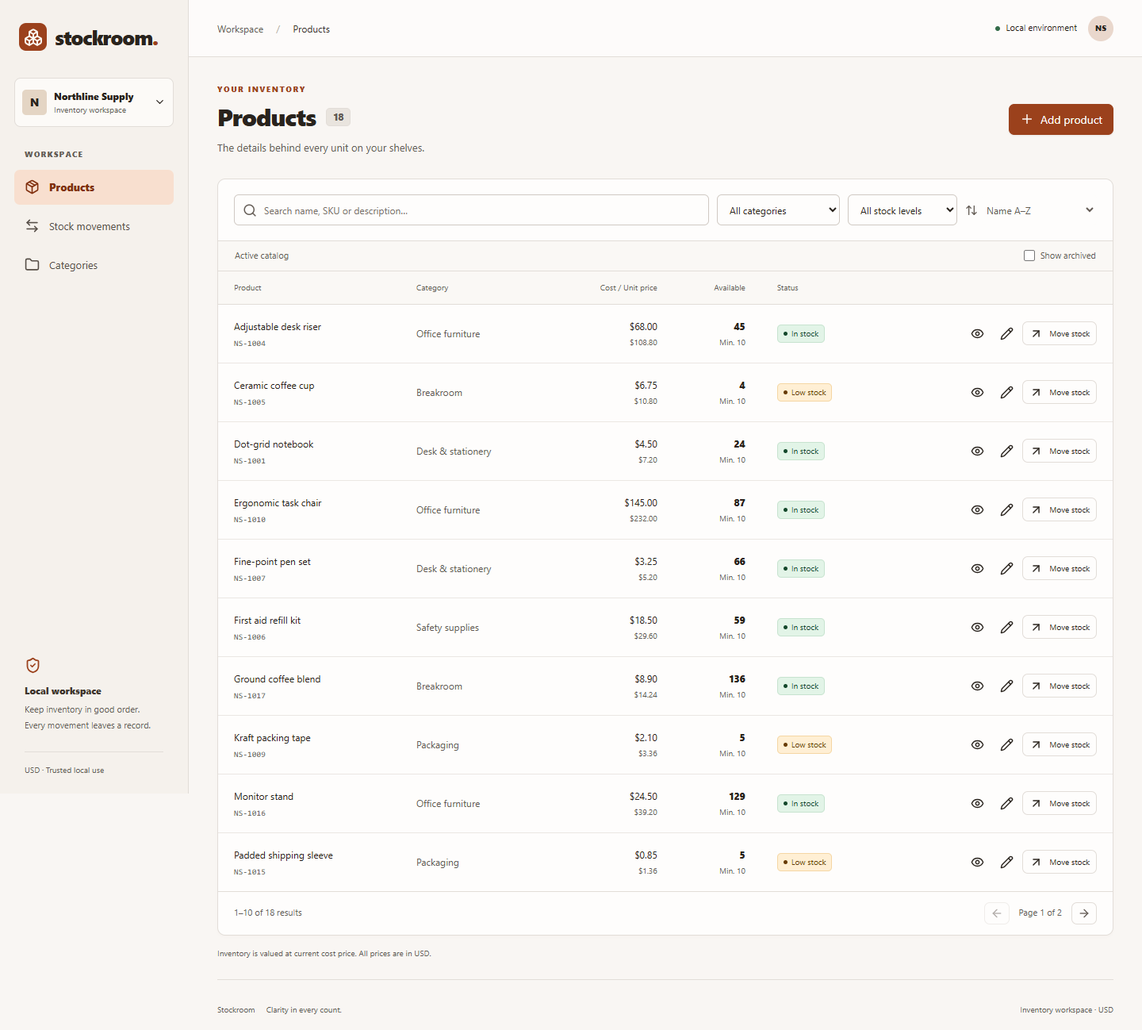
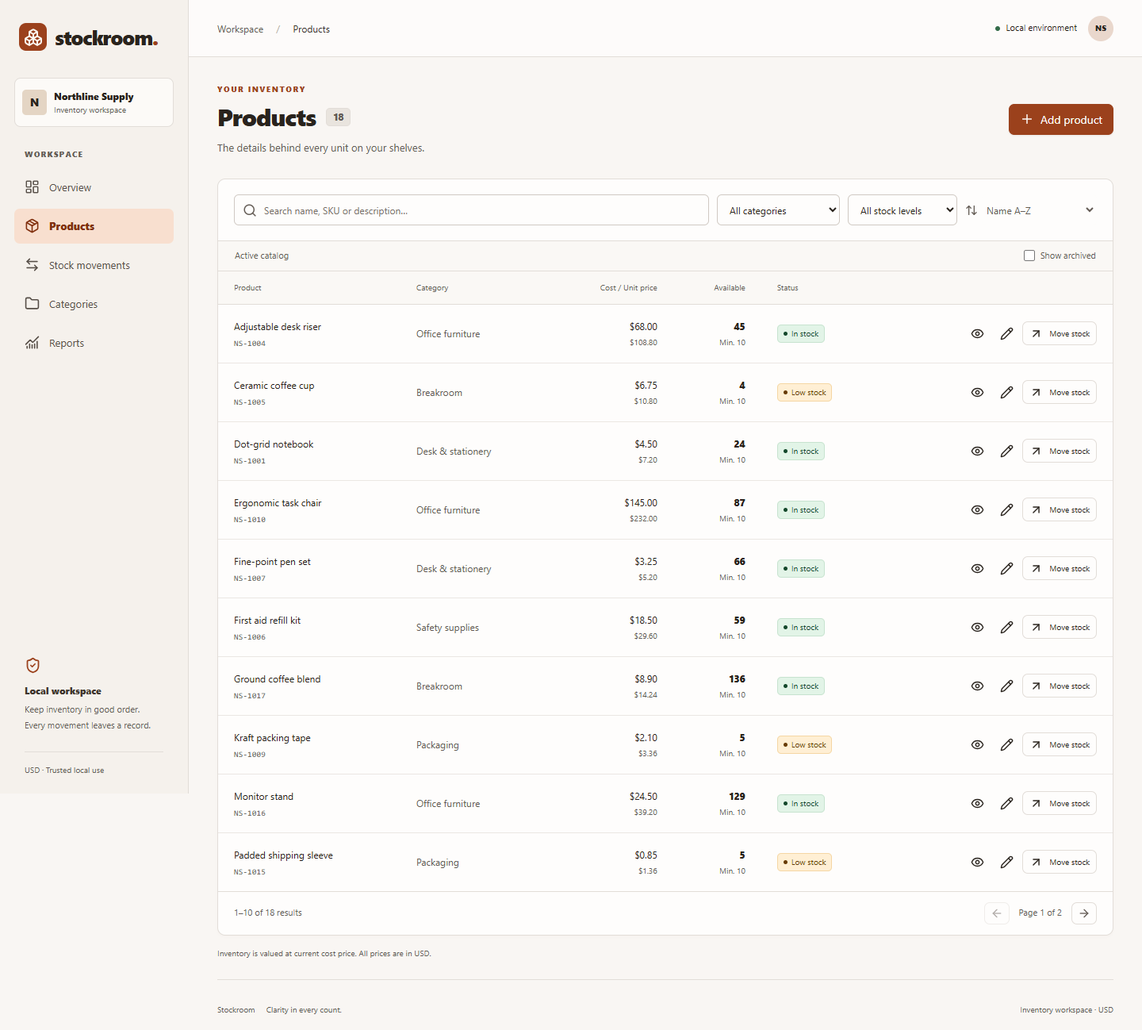
feat: add inventory dashboard and filterable valuation reports (#9)

Changed region(s): [[0.0, 0.1541, 0.1562, 0.339]]

diff --git a/frontend/src/styles.css b/frontend/src/styles.css
@@ -152,3 +152,14 @@ fieldset:disabled { opacity: .6; }
 @media (max-width: 850px) { .sidebar { position: fixed; z-index: 40; width: 245px; left: -250px; height: 100dvh; }.sidebar.open { left: 0; }.mobile-toggle { display: inline-flex !important; }.mobile-close { display: inline-flex !important; position: absolute; right: 8px; top: 6px; }.nav-backdrop { display: block !important; position: fixed; inset: 0; z-index: 39; border: 0; border-radius: 0; background: oklch(20% .02 65 / .3); }.topbar { height: 63px; padding: 0 20px; }.topbar>div { gap: 8px; }.category-layout { grid-template-columns: 1fr; }.category-form { order: -1; }.page-heading { margin-bottom: 24px; }.category-form form { max-width: 550px; } }
 @media (max-width: 550px) { main { padding: 25px 16px 15px; }h1 { font-size: 26px; }.page-heading { flex-wrap: wrap; align-items: flex-start; gap: 16px; }.page-heading .muted { font-size: 12px; }.page-heading>button { width: 100%; }.topbar { padding: 0 12px; }.breadcrumb { font-size: 11px; }.breadcrumb span { margin: 0 7px; }.local-indicator { display: none; }.toolbar { padding: 15px; gap: 9px; }.toolbar .search { min-width: 100%; }.toolbar>label:not(.search) { flex: 1; }.toolbar select { width: 100%; min-width: 100px; }.sort-label svg { display: none; }.date-label { flex-wrap: wrap; }.date-label input { width: 100%; }.table-subhead { padding: 10px 15px; }th, td { padding: 13px 15px; }.pagination { padding: 12px; font-size: 10px; }.pagination>div { gap: 7px; }.pagination>div>span { display: none; }.form-grid { grid-template-columns: 1fr; }.span-2 { grid-column: auto; }dialog { padding: 20px; }.details { gap: 18px; }.stock-context { gap: 15px; }.stock-context>div:first-child { max-width: 70%; }footer { gap: 10px; flex-wrap: wrap; padding-top: 20px; }footer>span:last-child { margin-left: 0; width: 100%; }.history-note { display: none; }.description { overflow-wrap: anywhere; } }
 @media (prefers-reduced-motion: reduce) { *, *::before, *::after { animation: none !important; transition: none !important; } }
+.button { display: inline-flex; align-items: center; justify-content: center; gap: 8px; border: 1px solid var(--line); border-radius: 7px; background: var(--surface); padding: 9px 14px; min-height: 39px; font-size: 12px; font-weight: 550; }.button:hover { background: oklch(94% .01 70); }.button.primary { background: var(--accent); color: oklch(99% .006 70); border-color: var(--accent); }.button.primary:hover { background: oklch(43% .12 41); }
+.heading-actions { display: flex; align-items: center; gap: 12px; }
+.metrics { margin: 0 0 25px; padding: 23px 0 25px; display: grid; grid-template-columns: 1fr 1fr 1.35fr 1fr; border-top: 1px solid var(--line); border-bottom: 1px solid var(--line); }
+.metrics>div { padding: 0 25px; border-right: 1px solid var(--line); }.metrics>div:first-child { padding-left: 0; }.metrics>div:last-child { border-right: 0; padding-right: 0; }.metrics dt { color: var(--muted); font-size: 12px; }.metrics dd { margin: 7px 0 7px; font-size: 30px; letter-spacing: -.9px; font-weight: 600; line-height: 1.25; font-variant-numeric: tabular-nums; }.metrics>div>span { font-size: 10px; color: var(--muted); }.metrics .attention-count { color: var(--accent); display: flex; gap: 15px; align-items: center; }
+.attention-banner { display: flex; align-items: center; gap: 14px; padding: 17px 20px; background: oklch(96% .026 70); border: 1px solid oklch(87% .05 65); border-radius: 8px; margin-bottom: 25px; }.alert-icon { color: var(--accent); }.attention-banner strong { font-size: 12px; }.attention-banner p { color: var(--muted); font-size: 11px; margin-top: 3px; }.attention-banner>a { margin-left: auto; display: flex; gap: 8px; align-items: center; font-size: 11px; color: oklch(41% .1 45); white-space: nowrap; font-weight: 600; }
+.dashboard-charts { display: grid; grid-template-columns: 1.7fr 1fr; gap: 23px; margin-bottom: 25px; }.section-caption { font-size: 10px; color: var(--muted); margin-top: 5px; }.small-label { font-size: 10px; color: var(--muted); white-space: nowrap; }.activity-legend { display: flex; gap: 15px; padding: 0 23px; color: var(--muted); font-size: 10px; }.activity-legend span { display: flex; gap: 5px; align-items: center; }.activity-legend i, .legend-dot { width: 7px; height: 7px; border-radius: 2px; display: inline-block; }.activity-chart { padding: 10px 10px 10px 15px; }.chart-bottom { border-top: 1px solid var(--line); margin-top: 9px; padding: 16px 21px; display: flex; align-items: center; justify-content: space-between; gap: 10px; font-size: 10px; color: var(--muted); }.chart-bottom a { display: flex; align-items: center; gap: 5px; color: var(--accent); }.donut-wrap { position: relative; margin: -10px 0 -5px; }.donut-center { position: absolute; top: 50%; left: 50%; transform: translate(-50%, -50%); display: flex; flex-direction: column; align-items: center; pointer-events: none; }.donut-center strong { font-size: 24px; letter-spacing: -.5px; }.donut-center span { font-size: 10px; color: var(--muted); }.chart-legend { list-style: none; margin: 0; padding: 5px 24px 20px; display: grid; grid-template-columns: 1fr 1fr; gap: 9px 15px; }.chart-legend li { display: flex; align-items: center; gap: 6px; font-size: 9px; color: var(--muted); }.chart-legend li strong { margin-left: auto; font-size: 10px; color: oklch(32% .02 65); }.legend-dot { flex: 0 0 7px; }
+.dashboard-bottom, .reports-detail { display: grid; grid-template-columns: 1.2fr 1fr; gap: 23px; }.dashboard-bottom td { padding-top: 13px; padding-bottom: 13px; }.dashboard-bottom .section-heading { gap: 10px; }.section-heading .text-button { white-space: nowrap; font-size: 10px; }.recent-list { margin: 0; padding: 0 21px; list-style: none; }.recent-list li { display: flex; align-items: center; gap: 12px; border-top: 1px solid var(--line); padding: 15px 0; }.recent-icon { display: grid; place-items: center; height: 32px; width: 32px; border-radius: 7px; background: oklch(95% .015 65); color: var(--accent); }.recent-icon.in { background: oklch(95% .02 155); color: oklch(40% .07 155); transform: rotate(180deg); }.recent-list li>div { flex: 1; min-width: 0; }.recent-list li>div strong { font-size: 11px; }.recent-list li>div span { display: block; margin-top: 3px; font-size: 9px; color: var(--muted); }.recent-list li>strong { text-align: right; font-size: 14px; font-variant-numeric: tabular-nums; }.recent-list li>strong span { display: block; color: var(--muted); font-size: 9px; font-weight: 400; }
+.report-filters { display: flex; flex-wrap: wrap; gap: 12px; padding: 16px; margin-bottom: 25px; }.report-filters .search { flex: 1; position: relative; min-width: 200px; }.report-filters .search svg { top: 11px; }.report-filters label { font-size: 12px; }.report-filters label:not(.search) { max-width: 240px; }.report-total { padding: 18px 21px; border-top: 1px solid var(--line); display: flex; align-items: center; gap: 20px; font-size: 12px; background: oklch(98% .006 70); }.report-total strong { font-size: 19px; color: var(--accent); }.report-total>span:last-child { margin-left: auto; color: var(--muted); font-size: 10px; }.reports-detail { margin-top: 25px; grid-template-columns: 1fr 1fr; align-items: start; }.activity-table { max-height: 345px; }.activity-table th { position: sticky; top: 0; }.recharts-tooltip-wrapper { font-size: 11px; }
+@media (max-width: 1200px) { .metrics>div { padding: 0 15px; }.metrics dd { font-size: 26px; }.dashboard-charts { grid-template-columns: 1.5fr 1fr; }.chart-legend { grid-template-columns: 1fr; }.chart-bottom>span { display: none; }.dashboard-bottom { grid-template-columns: 1fr; }.dashboard-bottom .recent-list { display: grid; grid-template-columns: 1fr 1fr; gap: 0 25px; } }
+@media (max-width: 850px) { .metrics { grid-template-columns: 1fr 1fr; gap: 22px 0; }.metrics>div:nth-child(2) { border-right: 0; }.metrics>div:nth-child(3) { padding-left: 0; }.metrics>div:nth-child(3), .metrics>div:nth-child(4) { padding-top: 20px; border-top: 1px solid var(--line); }.dashboard-charts { grid-template-columns: 1.5fr 1fr; }.reports-detail { grid-template-columns: 1fr; } }
+@media (max-width: 550px) { .metrics { padding: 20px 0; }.metrics dd { font-size: 26px; }.metrics>div>span { font-size: 9px; }.dashboard-charts, .dashboard-bottom { grid-template-columns: 1fr; gap: 20px; }.chart-legend { grid-template-columns: 1fr 1fr; }.attention-banner { padding: 14px; align-items: flex-start; gap: 9px; flex-wrap: wrap; }.attention-banner>div { max-width: calc(100% - 34px); }.attention-banner>a { margin-left: 29px; }.dashboard-bottom .recent-list { display: block; }.heading-actions { width: 100%; justify-content: space-between; }.heading-actions .button { flex: 1; }.report-filters .search { min-width: 100%; }.report-filters label:not(.search) { flex: 1; max-width: none; }.report-total { flex-wrap: wrap; gap: 8px 16px; }.report-total>span:last-child { margin-left: 0; width: 100%; }.section-heading { padding: 18px; }.dashboard-bottom td { padding-left: 12px; padding-right: 12px; } }

diff --git a/frontend/src/Dashboard.tsx b/frontend/src/Dashboard.tsx
@@ -1,0 +1,27 @@
+import { useState } from 'react'
+import { Link } from 'react-router-dom'
+import { useQuery } from '@tanstack/react-query'
+import { ArrowRight, ArrowUpRight, AlertTriangle, RefreshCw } from 'lucide-react'
+import { Bar, BarChart, CartesianGrid, Cell, Pie, PieChart, ResponsiveContainer, Tooltip, XAxis, YAxis } from 'recharts'
+import { api, count, kindLabel, money, timestamp, type Product, type Report } from './api'
+import { Empty, ErrorMessage, Loading, StockBadge } from './ui'
+import { StockForm } from './Forms'
+
+const palette = ['oklch(49% .13 41)', 'oklch(55% .055 155)', 'oklch(68% .07 80)', 'oklch(48% .045 250)', 'oklch(72% .04 55)', 'oklch(64% .05 310)']
+export function Metrics({ data }: { data: Report }) {
+  return <dl className="metrics"><div><dt>Total products</dt><dd>{count(data.totalProducts)}</dd><span>Active catalog items</span></div><div><dt>Inventory units</dt><dd>{count(data.totalUnits)}</dd><span>Across all matching products</span></div><div><dt>Inventory value</dt><dd>{money(data.inventoryValue)}</dd><span>At current cost · USD</span></div><div><dt>Needs attention</dt><dd className="attention-count">{data.lowStockProducts + data.outOfStockProducts}<AlertTriangle size={21}/></dd><span>{data.lowStockProducts} low · {data.outOfStockProducts} out of stock</span></div></dl>
+}
+export function CategoryChart({ data }: { data: Report }) {
+  return <section className="panel distribution"><div className="section-heading"><div><h2>Category distribution</h2><p className="section-caption">Available units by category</p></div><span className="small-label">{data.categories.length} categories</span></div>{data.totalUnits === 0 ? <Empty title="No units to distribute">Receive stock to see your category mix.</Empty> : <><div className="donut-wrap" role="img" aria-label={`Category distribution: ${data.categories.map(c => `${c.name}, ${c.units} units`).join('; ')}`}><ResponsiveContainer width="100%" height={205} initialDimension={{ width: 350, height: 205 }}><PieChart><Pie data={data.categories} dataKey="units" nameKey="name" innerRadius={62} outerRadius={86} paddingAngle={3} stroke="none" isAnimationActive={false}>{data.categories.map((c, i) => <Cell key={c.categoryId} fill={palette[i % palette.length]}/>)}</Pie><Tooltip/></PieChart></ResponsiveContainer><div className="donut-center"><strong>{count(data.totalUnits)}</strong><span>total units</span></div></div><ul className="chart-legend">{data.categories.map((c, i) => <li key={c.categoryId}><span className="legend-dot" style={{ background: palette[i % palette.length] }}/><span>{c.name}</span><strong>{count(c.units)}</strong></li>)}</ul></>}</section>
+}
+export default function Dashboard({ notify }: { notify: (message: string) => void }) {
+  const report = useQuery({ queryKey: ['reports', 'dashboard'], queryFn: () => api<Report>('/reports'), refetchInterval: 30000 })
+  const [moving, setMoving] = useState<Product | null>(null)
+  const data = report.data
+  return <><div className="page-heading"><div><p className="eyebrow">THE BIG PICTURE</p><h1>Inventory overview</h1><p className="muted">Know what’s on hand. See what needs your attention.</p></div><div className="heading-actions"><button className="icon-button" aria-label="Refresh dashboard" disabled={report.isFetching} onClick={() => report.refetch()}><RefreshCw size={17}/></button><Link className="button primary" to="/products">Manage inventory<ArrowUpRight size={17}/></Link></div></div><ErrorMessage error={report.error}/>{report.isPending ? <Loading/> : data && <>
+    <Metrics data={data}/>
+    {data.lowStockProducts + data.outOfStockProducts > 0 && <div className="attention-banner"><span className="alert-icon"><AlertTriangle size={19}/></span><div><strong>A little attention keeps things moving.</strong><p>{data.lowStockProducts} products are running low and {data.outOfStockProducts} are out of stock.</p></div><Link to="/reports?status=out">Review stock<ArrowRight size={16}/></Link></div>}
+    <div className="dashboard-charts"><section className="panel activity-panel"><div className="section-heading"><div><h2>Stock activity</h2><p className="section-caption">Units received and issued over the last 14 days</p></div><span className="small-label">Daily · UTC</span></div><div className="activity-legend"><span><i style={{ background: palette[0] }}/>Received</span><span><i style={{ background: palette[3] }}/>Issued</span><span><i style={{ background: palette[1] }}/>Adjusted</span></div><div className="activity-chart" role="img" aria-label="Daily stock movement chart. Tabular activity is available in Reports."><ResponsiveContainer width="100%" height={240} initialDimension={{ width: 600, height: 240 }}><BarChart data={data.activity} margin={{ top: 15, right: 18, bottom: 0, left: -18 }} barGap={2}><CartesianGrid stroke="oklch(92% .01 70)" vertical={false}/><XAxis dataKey="date" tickFormatter={value => String(value).slice(5).replace('-', '/')} axisLine={false} tickLine={false} tick={{ fontSize: 10, fill: 'oklch(48% .015 65)' }} minTickGap={18}/><YAxis axisLine={false} tickLine={false} tick={{ fontSize: 10, fill: 'oklch(48% .015 65)' }} allowDecimals={false}/><Tooltip cursor={{ fill: 'oklch(96% .01 70)' }}/><Bar name="Received" dataKey="received" fill={palette[0]} radius={[3, 3, 0, 0]} isAnimationActive={false}/><Bar name="Issued" dataKey="issued" fill={palette[3]} radius={[3, 3, 0, 0]} isAnimationActive={false}/><Bar name="Adjusted" dataKey="adjusted" fill={palette[1]} radius={[3, 3, 0, 0]} isAnimationActive={false}/></BarChart></ResponsiveContainer></div><div className="chart-bottom"><span>Every movement is recorded in your stock ledger.</span><Link to="/movements">View all movements<ArrowRight size={14}/></Link></div></section><CategoryChart data={data}/></div>
+    <div className="dashboard-bottom"><section className="panel"><div className="section-heading"><div><h2>Replenishment watchlist</h2><p className="section-caption">Out-of-stock and low-stock products first</p></div><Link className="text-button" to="/reports?status=low">View report<ArrowRight size={14}/></Link></div>{data.attentionProducts.length === 0 ? <Empty title="Stock is in good shape">There are no low-stock products to review.</Empty> : <div className="table-scroll" tabIndex={0} aria-label="Products needing attention"><table><thead><tr><th>Product</th><th className="numeric">On hand</th><th>Status</th><th><span className="sr-only">Action</span></th></tr></thead><tbody>{data.attentionProducts.map(p => <tr key={p.id}><td><strong>{p.name}</strong><span className="subline mono">{p.sku}</span></td><td className="numeric"><strong>{p.quantity}</strong><span className="subline">Min. {p.lowStockThreshold}</span></td><td><StockBadge product={p}/></td><td><button className="icon-button" aria-label={`Receive stock for ${p.name}`} onClick={() => setMoving(p)}><ArrowUpRight size={18}/></button></td></tr>)}</tbody></table></div>}</section><section className="panel"><div className="section-heading"><div><h2>Recent movements</h2><p className="section-caption">The latest changes to your stock</p></div><Link className="text-button" to="/movements">View all<ArrowRight size={14}/></Link></div>{data.recentMovements.length === 0 ? <Empty title="Your ledger starts here">Receive stock from the product catalog to record your first movement.</Empty> : <ul className="recent-list">{data.recentMovements.slice(0, 6).map(m => <li key={m.id}><span className={`recent-icon ${m.kind}`}><ArrowUpRight size={17}/></span><div><strong>{m.productName}</strong><span>{kindLabel(m.kind)} · {timestamp(m.createdAt)}</span></div><strong className={m.delta > 0 ? 'positive' : 'negative'}>{m.delta > 0 ? '+' : ''}{m.delta}<span>units</span></strong></li>)}</ul>}</section></div><p className="table-footnote">Snapshot: {timestamp(data.asOf)} · Auto-refreshes every 30 seconds · Valued at current cost</p>
+  </>}{moving && <StockForm product={moving} onClose={() => setMoving(null)} onSaved={notify}/>}</>
+}

diff --git a/frontend/src/App.tsx b/frontend/src/App.tsx
@@ -1,18 +1,20 @@
-import { useState } from 'react'
+import { useState, lazy, Suspense } from 'react'
 import { NavLink, Navigate, Route, Routes, useLocation } from 'react-router-dom'
-import { Boxes, Package, ArrowLeftRight, Folder, Menu, X, ShieldCheck } from 'lucide-react'
+import { Boxes, Package, ArrowLeftRight, Folder, Menu, X, ShieldCheck, LayoutDashboard, ChartNoAxesCombined } from 'lucide-react'
 import Products from './Products'
 import Categories from './Categories'
 import Movements from './Movements'
+const Dashboard = lazy(() => import('./Dashboard'))
+const Reports = lazy(() => import('./Reports'))
+import { Loading } from './ui'
 
 export default function App() {
   const [menu, setMenu] = useState(false), [message, setMessage] = useState('')
   const location = useLocation()
   const notify = (text: string) => setMessage(text)
   return <div className="app-shell"><a className="skip-link" href="#main">Skip to content</a>{menu && <button className="nav-backdrop" aria-label="Close navigation" onClick={() => setMenu(false)}/>}
-    <aside id="primary-sidebar" className={`sidebar ${menu ? 'open' : ''}`}><a href="/products" className="brand"><span className="brand-mark"><Boxes size={24}/></span>stockroom<span className="brand-dot">.</span></a><button className="mobile-close icon-button" aria-label="Close navigation" onClick={() => setMenu(false)}><X/></button><div className="workspace"><span className="workspace-avatar">N</span><div><strong>Northline Supply</strong><span>Inventory workspace</span></div></div><p className="nav-label">WORKSPACE</p><nav aria-label="Primary navigation"><NavLink to="/products" onClick={() => setMenu(false)}><Package size={19}/>Products</NavLink><NavLink to="/movements" onClick={() => setMenu(false)}><ArrowLeftRight size={19}/>Stock movements</NavLink><NavLink to="/categories" onClick={() => setMenu(false)}><Folder size={19}/>Categories</NavLink></nav><div className="sidebar-bottom"><ShieldCheck size={21}/><strong>Local workspace</strong><p>Keep inventory in good order.<br/>Every movement leaves a record.</p><span>USD · Trusted local use</span></div></aside>
-    <div className="workspace-main"><header className="topbar"><div><button className="mobile-toggle icon-button" aria-label="Open navigation" aria-expanded={menu} aria-controls="primary-sidebar" onClick={() => setMenu(!menu)}><Menu size={22}/></button><span className="breadcrumb">Workspace <span>/</span> <strong>{({ '/products': 'Products', '/movements': 'Stock movements', '/categories': 'Categories' })[location.pathname] ?? 'Inventory'}</strong></span></div><div className="topbar-right"><span className="local-indicator">Local environment</span><span className="user-avatar" aria-label="Inventory operator">NS</span></div></header>
-    <main id="main" tabIndex={-1}>{message && <div role="status" className="toast"><ShieldCheck size={18}/>{message}<button className="icon-button" aria-label="Dismiss notification" onClick={() => setMessage('')}><X size={16}/></button></div>}<Routes><Route path="/products" element={<Products notify={notify}/>}/><Route path="/categories" element={<Categories notify={notify}/>}/><Route path="/movements" element={<Movements/>}/><Route path="*" element={<Navigate to="/products" replace/>}/></Routes><footer>Stockroom <span>Clarity in every count.</span><span>Inventory workspace · USD</span></footer></main></div>
+    <aside id="primary-sidebar" className={`sidebar ${menu ? 'open' : ''}`}><a href="/" className="brand"><span className="brand-mark"><Boxes size={24}/></span>stockroom<span className="brand-dot">.</span></a><button className="mobile-close icon-button" aria-label="Close navigation" onClick={() => setMenu(false)}><X/></button><div className="workspace"><span className="workspace-avatar">N</span><div><strong>Northline Supply</strong><span>Inventory workspace</span></div></div><p className="nav-label">WORKSPACE</p><nav aria-label="Primary navigation"><NavLink to="/" end onClick={() => setMenu(false)}><LayoutDashboard size={19}/>Overview</NavLink><NavLink to="/products" onClick={() => setMenu(false)}><Package size={19}/>Products</NavLink><NavLink to="/movements" onClick={() => setMenu(false)}><ArrowLeftRight size={19}/>Stock movements</NavLink><NavLink to="/categories" onClick={() => setMenu(false)}><Folder size={19}/>Categories</NavLink><NavLink to="/reports" onClick={() => setMenu(false)}><ChartNoAxesCombined size={19}/>Reports</NavLink></nav><div className="sidebar-bottom"><ShieldCheck size={21}/><strong>Local workspace</strong><p>Keep inventory in good order.<br/>Every movement leaves a record.</p><span>USD · Trusted local use</span></div></aside>
+    <div className="workspace-main"><header className="topbar"><div><button className="mobile-toggle icon-button" aria-label="Open navigation" aria-expanded={menu} aria-controls="primary-sidebar" onClick={() => setMenu(!menu)}><Menu size={22}/></button><span className="breadcrumb">Workspace <span>/</span> <strong>{({ '/': 'Overview', '/reports': 'Reports', '/products': 'Products', '/movements': 'Stock movements', '/categories': 'Categories' })[location.pathname] ?? 'Inventory'}</strong></span></div><div className="topbar-right"><span className="local-indicator">Local environment</span><span className="user-avatar" aria-label="Inventory operator">NS</span></div></header>
+    <main id="main" tabIndex={-1}>{message && <div role="status" className="toast"><ShieldCheck size={18}/>{message}<button className="icon-button" aria-label="Dismiss notification" onClick={() => setMessage('')}><X size={16}/></button></div>}<Suspense fallback={<Loading/>}><Routes><Route path="/" element={<Dashboard notify={notify}/>}/><Route path="/reports" element={<Reports/>}/><Route path="/products" element={<Products notify={notify}/>}/><Route path="/categories" element={<Categories notify={notify}/>}/><Route path="/movements" element={<Movements/>}/><Route path="*" element={<Navigate to="/" replace/>}/></Routes></Suspense><footer>Stockroom <span>Clarity in every count.</span><span>Inventory workspace · USD</span></footer></main></div>
   </div>
 }
-

diff --git a/frontend/src/Reports.tsx b/frontend/src/Reports.tsx
@@ -1,0 +1,19 @@
+import { useState } from 'react'
+import { useSearchParams, Link } from 'react-router-dom'
+import { useQuery } from '@tanstack/react-query'
+import { Search, ArrowUpRight } from 'lucide-react'
+import { api, count, money, params, timestamp, type Category, type Page, type Product, type Report } from './api'
+import { Metrics } from './Dashboard'
+import { Empty, ErrorMessage, Loading, Pagination, StockBadge } from './ui'
+
+export default function Reports() {
+  const [searchParams] = useSearchParams()
+  const [search, setSearch] = useState(''), [categoryId, setCategory] = useState(''), [status, setStatus] = useState(searchParams.get('status') || 'all'), [page, setPage] = useState(1)
+  const filter = params({ search, categoryId, status })
+  const report = useQuery({ queryKey: ['reports', filter], queryFn: () => api<Report>(`/reports?${filter}`) })
+  const products = useQuery({ queryKey: ['products', 'report', filter, page], queryFn: () => api<Page<Product>>(`/products?${filter}&page=${page}&pageSize=10&sort=value&descending=true`) })
+  const categories = useQuery({ queryKey: ['categories'], queryFn: () => api<Category[]>('/categories') })
+  const change = (fn: () => void) => { fn(); setPage(1) }
+  const data = report.data
+  return <><div className="page-heading"><div><p className="eyebrow">A CLOSER LOOK</p><h1>Inventory reports</h1><p className="muted">Understand stock health, distribution and current-cost valuation.</p></div><Link className="button" to="/movements">Movement history<ArrowUpRight size={16}/></Link></div><div className="report-filters panel"><label className="search"><Search size={18}/><span className="sr-only">Search report</span><input value={search} maxLength={160} placeholder="Search products or SKUs…" onChange={e => change(() => setSearch(e.target.value))}/></label><label><span className="sr-only">Report category</span><select value={categoryId} onChange={e => change(() => setCategory(e.target.value))}><option value="">All categories</option>{categories.data?.map(c => <option key={c.id} value={c.id}>{c.name}</option>)}</select></label><label><span className="sr-only">Report stock status</span><select value={status} onChange={e => change(() => setStatus(e.target.value))}><option value="all">All stock levels</option><option value="low">Low stock</option><option value="out">Out of stock</option><option value="healthy">In stock</option></select></label></div><ErrorMessage error={report.error || products.error || categories.error}/>{report.isPending ? <Loading/> : data && <><Metrics data={data}/><section className="panel"><div className="section-heading"><div><h2>Inventory valuation</h2><p className="section-caption">Filtered products, ordered by cost value</p></div><span className="small-label">USD</span></div>{products.isPending ? <Loading/> : products.data?.items.length === 0 ? <Empty title="No products match this report"/> : <div className="table-scroll" tabIndex={0} aria-label="Inventory valuation table"><table><thead><tr><th>Product</th><th>Category</th><th className="numeric">Quantity</th><th className="numeric">Cost price</th><th className="numeric">Cost value</th><th>Status</th><th>History</th></tr></thead><tbody>{products.data?.items.map(p => <tr key={p.id}><td><strong>{p.name}</strong><span className="subline mono">{p.sku}</span></td><td className="muted">{p.categoryName}</td><td className="numeric">{count(p.quantity)}</td><td className="numeric">{money(p.costPrice)}</td><td className="numeric"><strong>{money(p.inventoryValue)}</strong></td><td><StockBadge product={p}/></td><td><Link className="text-button" aria-label={`History for ${p.name}`} to={`/movements?productId=${p.id}`}>View ledger<ArrowUpRight size={14}/></Link></td></tr>)}</tbody></table></div>}{products.data && <Pagination page={page} total={products.data.total} onChange={setPage}/>}<div className="report-total"><span>Current-cost inventory value</span><strong data-testid="report-value">{money(data.inventoryValue)}</strong><span>Retail value: {money(data.retailValue)}</span></div></section><div className="reports-detail"><section className="panel"><div className="section-heading"><h2>Category breakdown</h2></div>{data.categories.length === 0 ? <Empty title="No category data"/> : <div className="table-scroll" tabIndex={0} aria-label="Category valuation"><table><thead><tr><th>Category</th><th className="numeric">Products</th><th className="numeric">Units</th><th className="numeric">Cost value</th></tr></thead><tbody>{data.categories.map(c => <tr key={c.categoryId}><td>{c.name}</td><td className="numeric">{c.products}</td><td className="numeric">{count(c.units)}</td><td className="numeric">{money(c.value)}</td></tr>)}</tbody></table></div>}</section><section className="panel"><div className="section-heading"><div><h2>Daily movement totals</h2><p className="section-caption">Last 14 days · UTC</p></div></div><div className="table-scroll activity-table" tabIndex={0} aria-label="Daily stock activity"><table><thead><tr><th>Date</th><th className="numeric">Received</th><th className="numeric">Issued</th><th className="numeric">Adjusted</th></tr></thead><tbody>{data.activity.slice().reverse().map(day => <tr key={day.date}><td>{day.date}</td><td className="numeric">{day.received}</td><td className="numeric">{day.issued}</td><td className="numeric">{day.adjusted > 0 ? '+' : ''}{day.adjusted}</td></tr>)}</tbody></table></div></section></div><p className="table-footnote">Snapshot: {timestamp(data.asOf)} · Inventory value uses current cost price.</p></>}</>
+}

diff --git a/frontend/src/Dashboard.test.tsx b/frontend/src/Dashboard.test.tsx
@@ -1,0 +1,27 @@
+import { render, screen, within, waitFor } from '@testing-library/react'
+import { QueryClient, QueryClientProvider } from '@tanstack/react-query'
+import { MemoryRouter } from 'react-router-dom'
+import { test, expect, vi } from 'vitest'
+import userEvent from '@testing-library/user-event'
+import Dashboard from './Dashboard'
+import Reports from './Reports'
+import type { Report } from './api'
+
+const report: Report = { totalProducts: 2, totalUnits: 3, inventoryValue: '0.30', retailValue: '0.90', lowStockProducts: 1, outOfStockProducts: 1, categories: [{ categoryId: 'c1', name: 'Fictional supplies', units: 3, products: 2, value: '0.30' }], activity: [{ date: '2026-11-07', received: 3, issued: 0, adjusted: 0 }], recentMovements: [], attentionProducts: [], asOf: '2026-11-07T12:00:00Z', currency: 'USD' }
+function mount(node: React.ReactNode) { const client = new QueryClient({ defaultOptions: { queries: { retry: false } } }); render(<QueryClientProvider client={client}><MemoryRouter>{node}</MemoryRouter></QueryClientProvider>) }
+test('dashboard displays exact summary, alert counts and chart alternatives', async () => {
+  vi.spyOn(globalThis, 'fetch').mockResolvedValue(Response.json(report))
+  mount(<Dashboard notify={vi.fn()}/> )
+  const value = await screen.findByText('Inventory value')
+  expect(within(value.parentElement!).getByText('$0.30')).toBeVisible()
+  expect(screen.getByText('1 low · 1 out of stock')).toBeVisible()
+  expect(screen.getByRole('img', { name: /Category distribution: Fictional supplies, 3 units/ })).toBeVisible()
+  expect(screen.getByRole('link', { name: 'View all movements' })).toHaveAttribute('href', '/movements')
+})
+test('report status filter requests filtered server totals', async () => {
+  const fetch = vi.spyOn(globalThis, 'fetch').mockImplementation(async url => String(url).includes('/categories') ? Response.json([]) : String(url).includes('/products') ? Response.json({ items: [], total: 0, pageNumber: 1, pageSize: 10 }) : Response.json(report))
+  mount(<Reports/> )
+  expect(await screen.findByTestId('report-value')).toHaveTextContent('$0.30')
+  await userEvent.setup().selectOptions(screen.getByLabelText('Report stock status'), 'out')
+  await waitFor(() => expect(fetch.mock.calls.some(([url]) => String(url).includes('/reports?status=out'))).toBe(true))
+})

diff --git a/frontend/src/Workspace.test.tsx b/frontend/src/Workspace.test.tsx
@@ -8,7 +8,7 @@ import { ProductForm, StockForm } from './Forms'
 import { api, money, type Product } from './api'
 import type { ReactNode } from 'react'
 
-const product: Product = { id: 'p1', sku: 'QA-100', name: 'Desk notebook', description: 'Fictional item', categoryId: 'c1', categoryName: 'Stationery', costPrice: '4.50', unitPrice: '7.20', quantity: 3, lowStockThreshold: 5, version: 1, isArchived: false, createdAt: '2026-01-01T00:00:00Z' }
+const product: Product = { id: 'p1', sku: 'QA-100', name: 'Desk notebook', description: 'Fictional item', categoryId: 'c1', categoryName: 'Stationery', costPrice: '4.50', unitPrice: '7.20', inventoryValue: '13.50', quantity: 3, lowStockThreshold: 5, version: 1, isArchived: false, createdAt: '2026-01-01T00:00:00Z' }
 function mount(node: ReactNode, path = '/products') {
   const client = new QueryClient({ defaultOptions: { queries: { retry: false }, mutations: { retry: false } } })
   return render(<QueryClientProvider client={client}><MemoryRouter initialEntries={[path]}>{node}</MemoryRouter></QueryClientProvider>)

diff --git a/frontend/src/api.ts b/frontend/src/api.ts
@@ -1,7 +1,7 @@
 export type Category = { id: string; name: string }
 export type Product = {
   id: string; sku: string; name: string; description: string; categoryId: string; categoryName: string;
-  unitPrice: string; costPrice: string; lowStockThreshold: number; quantity: number; isArchived: boolean; version: number; createdAt: string;
+  unitPrice: string; costPrice: string; inventoryValue: string; lowStockThreshold: number; quantity: number; isArchived: boolean; version: number; createdAt: string;
 }
 export type Movement = { id: string; productId: string; sku: string; productName: string; kind: string; delta: number; quantityBefore: number; quantityAfter: number; costPrice: string; reason: string; createdAt: string }
 export type Page<T> = { items: T[]; total: number; pageNumber: number; pageSize: number }

diff --git a/frontend/src/test-setup.ts b/frontend/src/test-setup.ts
@@ -4,3 +4,4 @@ import { cleanup } from '@testing-library/react'
 afterEach(() => { cleanup(); vi.restoreAllMocks() })
 HTMLDialogElement.prototype.showModal = function() { this.setAttribute('open', '') }
 HTMLDialogElement.prototype.close = function() { this.removeAttribute('open') }
+globalThis.ResizeObserver = class { observe() {} unobserve() {} disconnect() {} }

diff --git a/backend/Stockroom.Api/Contracts/ProductContracts.cs b/backend/Stockroom.Api/Contracts/ProductContracts.cs
@@ -12,7 +12,7 @@ public sealed record ProductInput(
     [Range(1, long.MaxValue)] long Version = 1);
 
 public sealed record ProductView(Guid Id, string Sku, string Name, string Description, Guid CategoryId, string CategoryName,
-    decimal UnitPrice, decimal CostPrice, int LowStockThreshold, int Quantity, bool IsArchived, long Version, DateTime CreatedAt);
+    decimal UnitPrice, decimal CostPrice, int LowStockThreshold, int Quantity, bool IsArchived, long Version, DateTime CreatedAt, decimal InventoryValue);
 public sealed record Page<T>(IReadOnlyList<T> Items, int Total, int PageNumber, int PageSize);
 public sealed class ProductQuery
 {

diff --git a/backend/Stockroom.Api/Services/ProductService.cs b/backend/Stockroom.Api/Services/ProductService.cs
@@ -8,7 +8,7 @@ public sealed class ProductService(InventoryDb db)
 {
     public static IQueryable<ProductView> Views(IQueryable<Product> products) => products.Select(x => new ProductView(
         x.Id, x.Sku, x.Name, x.Description, x.CategoryId, x.Category.Name, x.UnitPrice, x.CostPrice,
-        x.LowStockThreshold, x.Quantity, x.IsArchived, x.Version, x.CreatedAt));
+        x.LowStockThreshold, x.Quantity, x.IsArchived, x.Version, x.CreatedAt, x.Quantity * x.CostPrice));
 
     public static IQueryable<Product> Filter(IQueryable<Product> products, ProductQuery query)
     {
